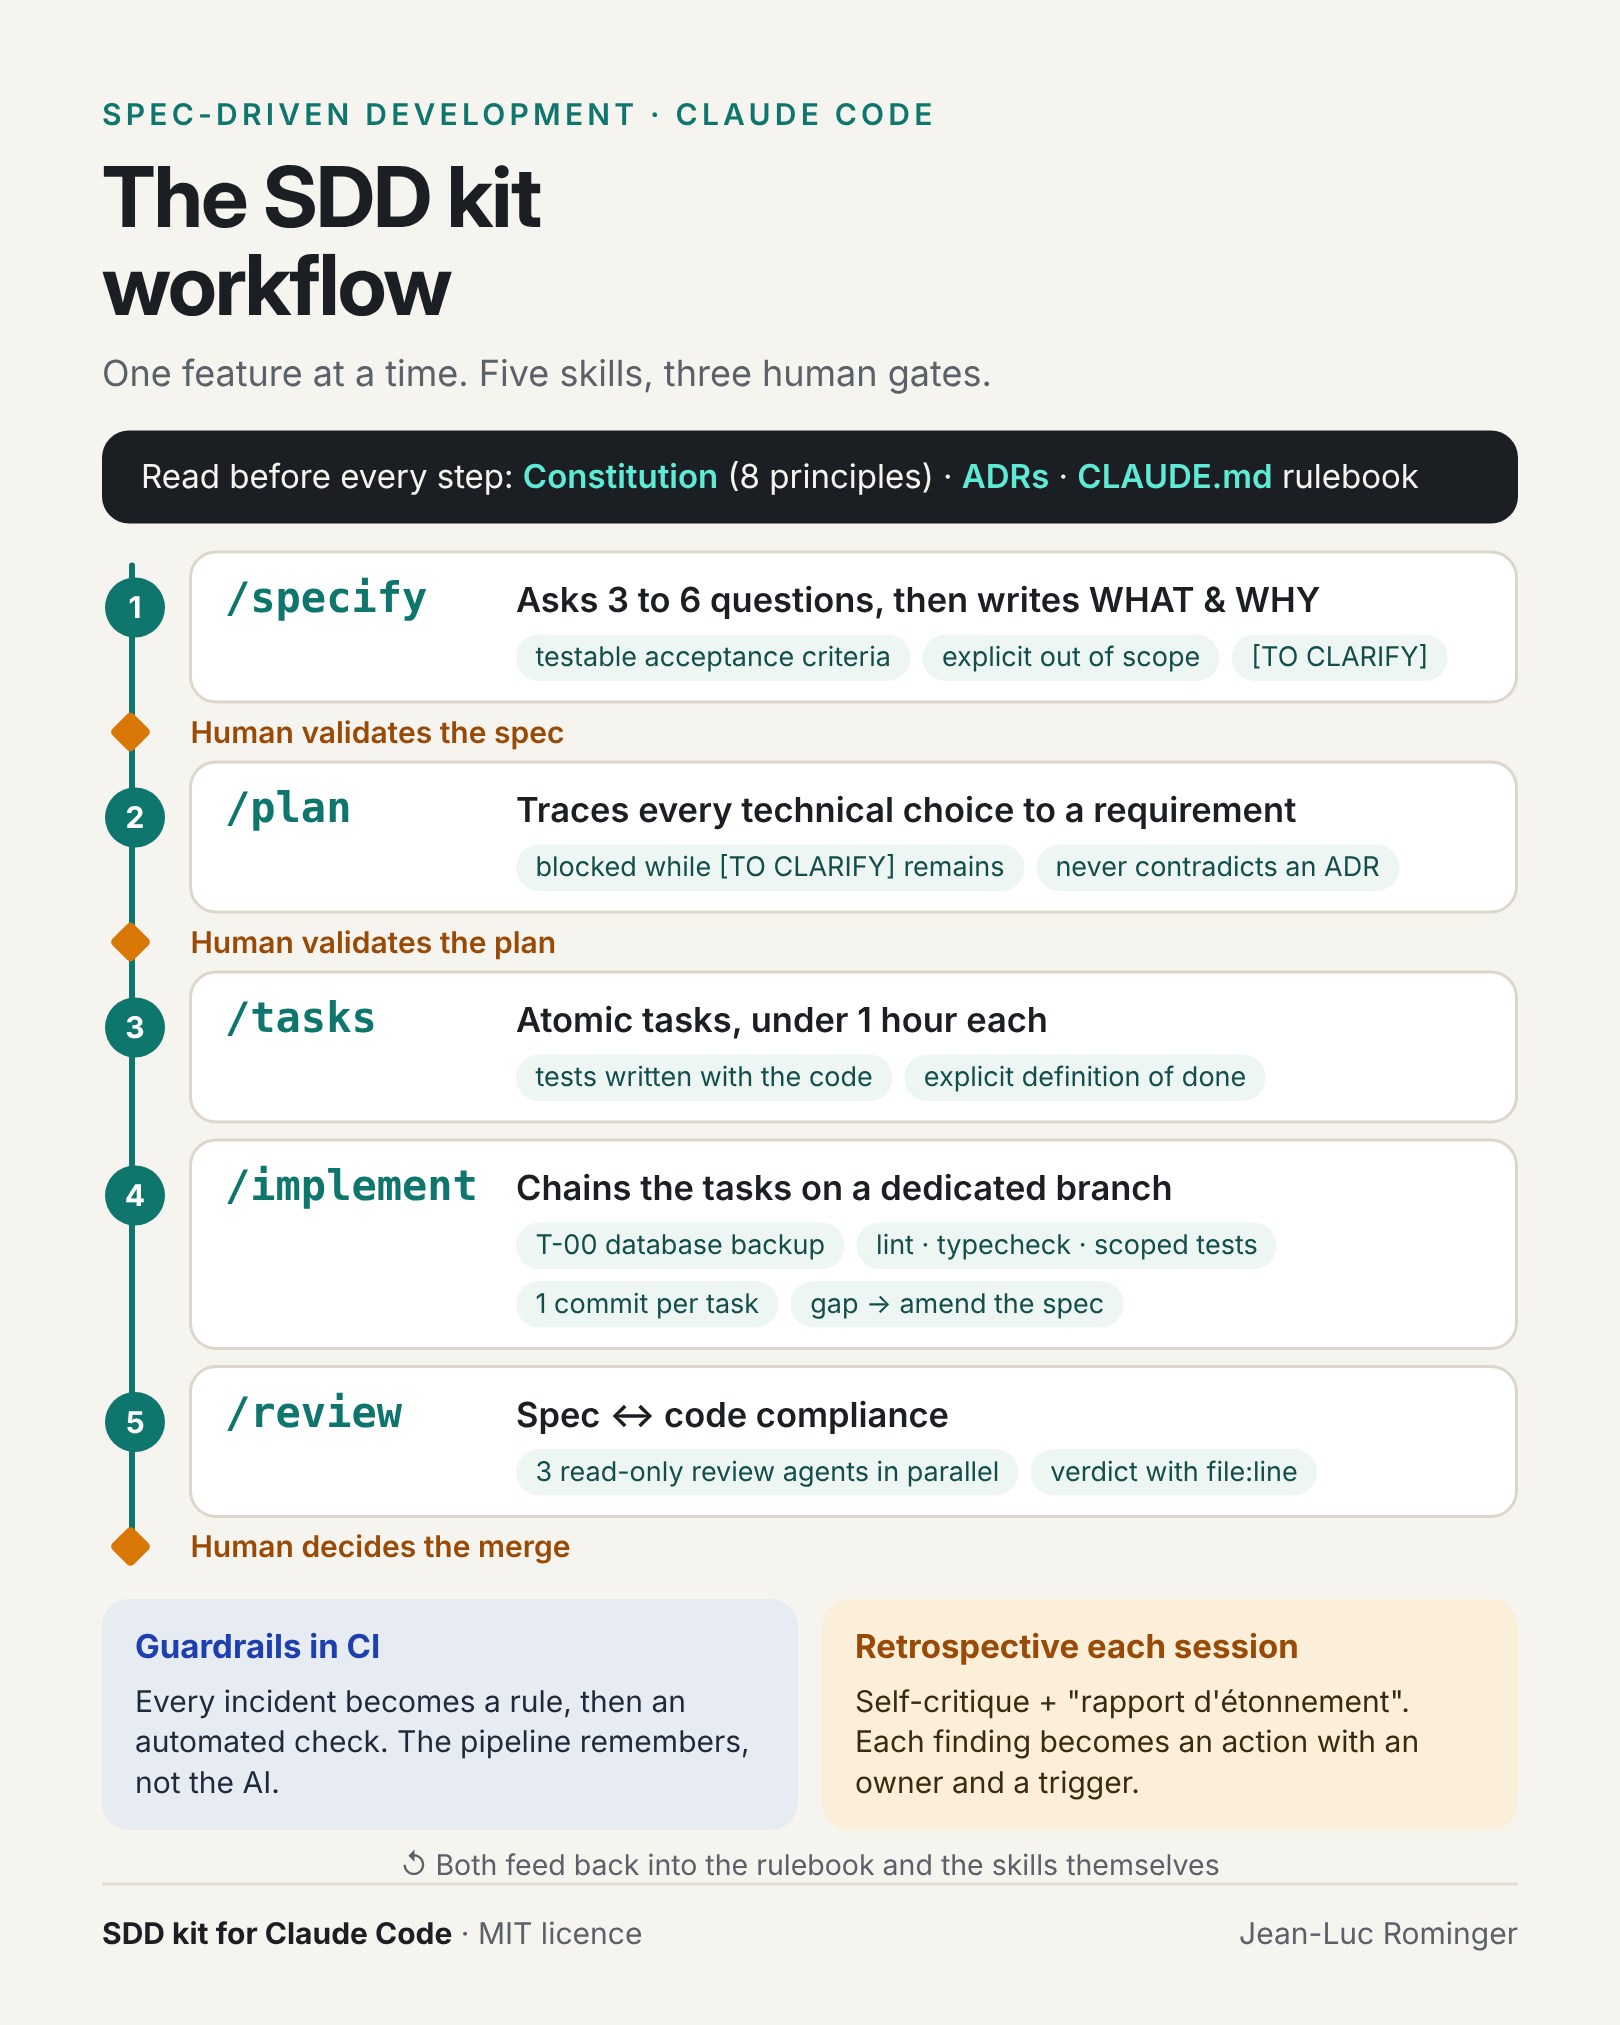
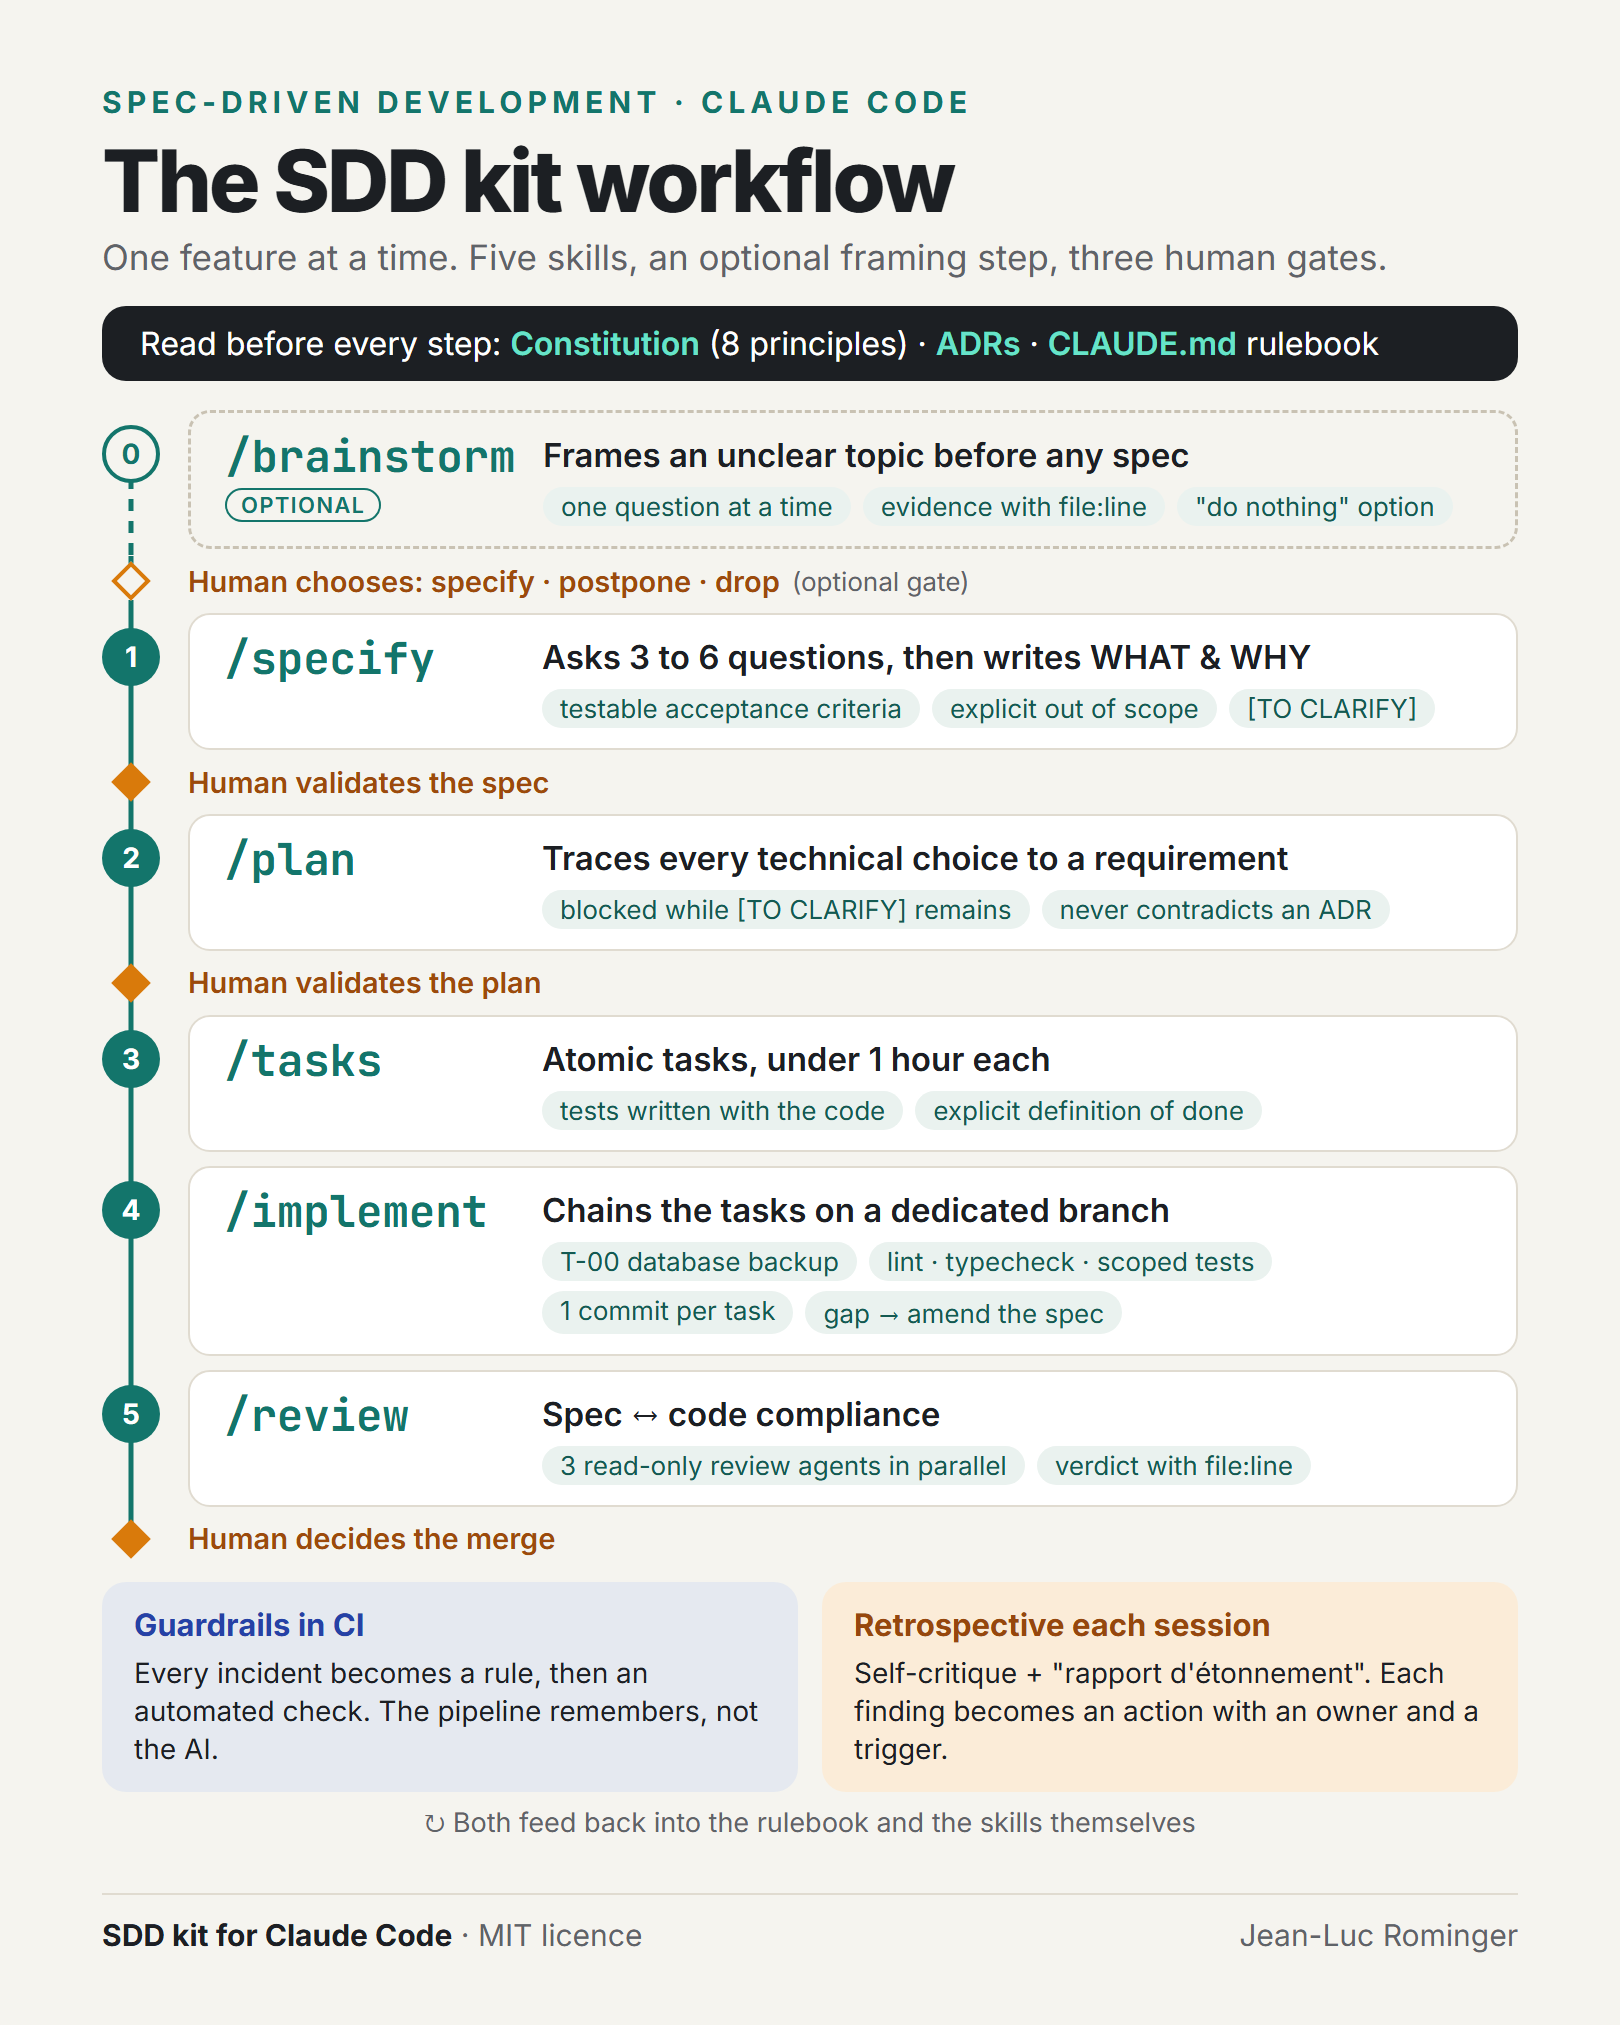
docs: workflow visual shows the optional /brainstorm step, with its source
- workflow.png: dashed step 0 /brainstorm before /specify, optional human
  gate (specify, postpone or drop); the three mandatory gates are unchanged.
  Same 1620 x 2025 px (4:5) format.
- docs/images/src/workflow.html: editable source of the visual, rendered
  with headless Chrome; README.md in that folder gives the render and
  fit-check commands.

diff --git a/docs/images/src/workflow.html b/docs/images/src/workflow.html
@@ -1,0 +1,271 @@
+<!doctype html>
+<!--
+  Source of docs/images/workflow.png (1620 x 2025 px, 4:5).
+  Edit the text below, then re-render: see docs/images/src/README.md.
+-->
+<html lang="en">
+<head>
+<meta charset="utf-8">
+<title>SDD kit workflow</title>
+<link rel="preconnect" href="https://fonts.googleapis.com">
+<link rel="preconnect" href="https://fonts.gstatic.com" crossorigin>
+<link href="https://fonts.googleapis.com/css2?family=Inter:wght@400;500;600;700;800&family=JetBrains+Mono:wght@700&display=block" rel="stylesheet">
+<style>
+  :root {
+    --bg: #f5f4ef;
+    --ink: #1c1f23;
+    --muted: #5f6368;
+    --line: #e0dbd0;
+    --teal: #13756b;
+    --teal-ink: #145a52;
+    --chip: #eaf2ef;
+    --gate: #d97a0b;
+    --gate-ink: #9c4a0c;
+    --dark: #1c1f23;
+    --mint: #67e3c9;
+    --ci-bg: #e5e9f0;
+    --ci-ink: #2541a6;
+    --retro-bg: #fbecd8;
+    --retro-ink: #96470d;
+    --mono: "JetBrains Mono", ui-monospace, Consolas, monospace;
+  }
+  * { box-sizing: border-box; margin: 0; padding: 0; }
+  html, body { width: 1620px; height: 2025px; background: var(--bg); }
+  body {
+    font-family: Inter, "Segoe UI", Arial, sans-serif;
+    color: var(--ink);
+    -webkit-font-smoothing: antialiased;
+  }
+  .canvas {
+    width: 1620px; height: 2025px;
+    padding: 84px 102px 0;
+    display: flex; flex-direction: column;
+  }
+
+  /* Header */
+  .eyebrow { color: var(--teal); font-weight: 700; font-size: 30px; letter-spacing: .17em; }
+  h1 { font-size: 86px; font-weight: 800; letter-spacing: -.035em; line-height: 1.05; margin-top: 16px; }
+  .subtitle { color: var(--muted); font-size: 35px; margin-top: 10px; }
+  .band {
+    margin-top: 28px; background: var(--dark); color: #fff;
+    border-radius: 24px; padding: 18px 38px; font-size: 32px;
+  }
+  .band b { color: var(--mint); font-weight: 600; }
+
+  /* Timeline */
+  .timeline { margin-top: 22px; }
+  .row { display: grid; grid-template-columns: 58px 1fr; column-gap: 28px; }
+  .rail { position: relative; }
+  .rail::before {
+    content: ""; position: absolute; left: 50%; top: 0; bottom: 0;
+    width: 5px; transform: translateX(-50%); background: var(--teal);
+  }
+  .rail.dashed::before {
+    background: repeating-linear-gradient(to bottom, var(--teal) 0 12px, transparent 12px 22px);
+  }
+  .rail.start::before { top: 52px; }
+  .rail.end::before { bottom: auto; height: 50%; }
+
+  .num {
+    position: absolute; left: 50%; top: 22px; transform: translateX(-50%);
+    width: 58px; height: 58px; border-radius: 50%;
+    background: var(--teal); color: #fff; font-weight: 700; font-size: 28px;
+    display: flex; align-items: center; justify-content: center; z-index: 1;
+  }
+  .num.hollow { background: var(--bg); color: var(--teal); border: 4px solid var(--teal); }
+
+  .card-wrap { padding: 7px 0; }
+  .card {
+    background: #fff; border: 2px solid var(--line); border-radius: 22px;
+    padding: 18px 32px 20px 34px;
+    display: grid; grid-template-columns: 318px 1fr; column-gap: 0;
+  }
+  .card.optional { background: transparent; border: 3px dashed #c9c2b3; }
+  .cmd { font-family: var(--mono); color: var(--teal); font-size: 44px; font-weight: 700; line-height: 1.15; }
+  .tag {
+    display: inline-block; margin-top: 6px; padding: 2px 14px;
+    border: 2px solid var(--teal); border-radius: 999px;
+    color: var(--teal); font-size: 22px; font-weight: 600; letter-spacing: .06em; text-transform: uppercase;
+  }
+  .what { font-size: 33px; font-weight: 600; line-height: 1.3; padding-top: 3px; }
+  .chips { display: flex; flex-wrap: wrap; gap: 10px 12px; margin-top: 10px; }
+  .chip {
+    background: var(--chip); color: var(--teal-ink);
+    font-size: 26px; padding: 4px 18px; border-radius: 999px; white-space: nowrap;
+  }
+
+  .gate { display: flex; align-items: center; height: 50px; color: var(--gate-ink); font-weight: 600; font-size: 29px; }
+  .gate .note { color: var(--muted); font-weight: 400; font-size: 26px; margin-left: 12px; }
+  .diamond {
+    position: absolute; left: 50%; top: 50%;
+    width: 28px; height: 28px; transform: translate(-50%, -50%) rotate(45deg);
+    background: var(--gate); z-index: 1;
+  }
+  .diamond.hollow { background: var(--bg); border: 4px solid var(--gate); }
+
+  /* Bottom */
+  .boxes { display: grid; grid-template-columns: 1fr 1fr; gap: 24px; margin-top: 18px; }
+  .box { border-radius: 24px; padding: 22px 32px 24px; font-size: 28px; line-height: 1.36; }
+  .box h2 { font-size: 31px; font-weight: 700; margin-bottom: 8px; }
+  .box.ci { background: var(--ci-bg); }
+  .box.ci h2 { color: var(--ci-ink); }
+  .box.retro { background: var(--retro-bg); }
+  .box.retro h2 { color: var(--retro-ink); }
+  .loop { text-align: center; color: var(--muted); font-size: 27px; margin-top: 14px; }
+
+  footer {
+    margin-top: auto; margin-bottom: 72px; padding-top: 22px;
+    border-top: 2px solid var(--line);
+    display: flex; justify-content: space-between; font-size: 30px; color: var(--muted);
+  }
+  footer b { color: var(--ink); font-weight: 700; }
+</style>
+</head>
+<body>
+<div class="canvas">
+  <div class="eyebrow">SPEC-DRIVEN DEVELOPMENT · CLAUDE CODE</div>
+  <h1>The SDD kit workflow</h1>
+  <p class="subtitle">One feature at a time. Five skills, an optional framing step, three human gates.</p>
+  <div class="band">Read before every step: <b>Constitution</b> (8 principles) · <b>ADRs</b> · <b>CLAUDE.md</b> rulebook</div>
+
+  <div class="timeline">
+    <!-- 0 · optional framing -->
+    <div class="row">
+      <div class="rail dashed start"><span class="num hollow">0</span></div>
+      <div class="card-wrap"><div class="card optional">
+        <div><div class="cmd">/brainstorm</div><span class="tag">optional</span></div>
+        <div>
+          <div class="what">Frames an unclear topic before any spec</div>
+          <div class="chips">
+            <span class="chip">one question at a time</span>
+            <span class="chip">evidence with file:line</span>
+            <span class="chip">"do nothing" option</span>
+          </div>
+        </div>
+      </div></div>
+    </div>
+    <div class="row">
+      <div class="rail dashed"><span class="diamond hollow"></span></div>
+      <div class="gate">Human chooses: specify · postpone · drop<span class="note">(optional gate)</span></div>
+    </div>
+
+    <!-- 1 -->
+    <div class="row">
+      <div class="rail"><span class="num">1</span></div>
+      <div class="card-wrap"><div class="card">
+        <div class="cmd">/specify</div>
+        <div>
+          <div class="what">Asks 3 to 6 questions, then writes WHAT &amp; WHY</div>
+          <div class="chips">
+            <span class="chip">testable acceptance criteria</span>
+            <span class="chip">explicit out of scope</span>
+            <span class="chip">[TO CLARIFY]</span>
+          </div>
+        </div>
+      </div></div>
+    </div>
+    <div class="row">
+      <div class="rail"><span class="diamond"></span></div>
+      <div class="gate">Human validates the spec</div>
+    </div>
+
+    <!-- 2 -->
+    <div class="row">
+      <div class="rail"><span class="num">2</span></div>
+      <div class="card-wrap"><div class="card">
+        <div class="cmd">/plan</div>
+        <div>
+          <div class="what">Traces every technical choice to a requirement</div>
+          <div class="chips">
+            <span class="chip">blocked while [TO CLARIFY] remains</span>
+            <span class="chip">never contradicts an ADR</span>
+          </div>
+        </div>
+      </div></div>
+    </div>
+    <div class="row">
+      <div class="rail"><span class="diamond"></span></div>
+      <div class="gate">Human validates the plan</div>
+    </div>
+
+    <!-- 3 -->
+    <div class="row">
+      <div class="rail"><span class="num">3</span></div>
+      <div class="card-wrap"><div class="card">
+        <div class="cmd">/tasks</div>
+        <div>
+          <div class="what">Atomic tasks, under 1 hour each</div>
+          <div class="chips">
+            <span class="chip">tests written with the code</span>
+            <span class="chip">explicit definition of done</span>
+          </div>
+        </div>
+      </div></div>
+    </div>
+
+    <!-- 4 -->
+    <div class="row">
+      <div class="rail"><span class="num">4</span></div>
+      <div class="card-wrap"><div class="card">
+        <div class="cmd">/implement</div>
+        <div>
+          <div class="what">Chains the tasks on a dedicated branch</div>
+          <div class="chips">
+            <span class="chip">T-00 database backup</span>
+            <span class="chip">lint · typecheck · scoped tests</span>
+            <span class="chip">1 commit per task</span>
+            <span class="chip">gap → amend the spec</span>
+          </div>
+        </div>
+      </div></div>
+    </div>
+
+    <!-- 5 -->
+    <div class="row">
+      <div class="rail"><span class="num">5</span></div>
+      <div class="card-wrap"><div class="card">
+        <div class="cmd">/review</div>
+        <div>
+          <div class="what">Spec ↔ code compliance</div>
+          <div class="chips">
+            <span class="chip">3 read-only review agents in parallel</span>
+            <span class="chip">verdict with file:line</span>
+          </div>
+        </div>
+      </div></div>
+    </div>
+    <div class="row">
+      <div class="rail end"><span class="diamond"></span></div>
+      <div class="gate">Human decides the merge</div>
+    </div>
+  </div>
+
+  <div class="boxes">
+    <div class="box ci">
+      <h2>Guardrails in CI</h2>
+      Every incident becomes a rule, then an automated check. The pipeline remembers, not the AI.
+    </div>
+    <div class="box retro">
+      <h2>Retrospective each session</h2>
+      Self-critique + "rapport d'étonnement". Each finding becomes an action with an owner and a trigger.
+    </div>
+  </div>
+  <p class="loop">↻ Both feed back into the rulebook and the skills themselves</p>
+
+  <footer>
+    <span><b>SDD kit for Claude Code</b> · MIT licence</span>
+    <span>Jean-Luc Rominger</span>
+  </footer>
+</div>
+<script>
+  // Exposes the content height for the render check (see README.md in this folder).
+  document.fonts.ready.then(() => {
+    const c = document.querySelector('.canvas');
+    const f = document.querySelector('footer');
+    const last = document.querySelector('.loop');
+    document.body.dataset.fits = String(f.getBoundingClientRect().top - last.getBoundingClientRect().bottom >= 20);
+    document.body.dataset.height = String(c.scrollHeight);
+  });
+</script>
+</body>
+</html>

diff --git a/docs/images/src/README.md b/docs/images/src/README.md
@@ -1,0 +1,33 @@
+# Image sources
+
+| Source | Rendered image | Size |
+|---|---|---|
+| `workflow.html` | `../workflow.png` | 1620 × 2025 px (4:5) |
+
+`evolution.png` has no source yet. Recreate it here the same way the next time it changes.
+
+## Edit and re-render
+
+1. Edit the text in `workflow.html`. Colours and spacing are at the top of the file, in `<style>`.
+2. Render it with headless Chrome (or Edge: same flags). The fonts (Inter, JetBrains Mono) load from Google Fonts, so you need network access. Run from the repository root:
+
+   ```bash
+   # Windows (Git Bash)
+   CHROME="/c/Program Files/Google/Chrome/Application/chrome.exe"
+   # macOS: CHROME="/Applications/Google Chrome.app/Contents/MacOS/Google Chrome"
+   # Linux: CHROME=google-chrome
+
+   SRC="file://$(pwd)/docs/images/src/workflow.html"   # Windows: "file:///$(cygpath -m "$PWD")/docs/images/src/workflow.html"
+   OUT="$(pwd)/docs/images/workflow.png"                # Windows: "$(cygpath -m "$PWD")/docs/images/workflow.png"
+
+   # 1. Check that everything fits: expect data-fits="true" data-height="2025"
+   "$CHROME" --headless=new --disable-gpu --window-size=1620,2025 --virtual-time-budget=10000 \
+     --dump-dom "$SRC" | grep -o '<body[^>]*>'
+
+   # 2. Render
+   "$CHROME" --headless=new --disable-gpu --hide-scrollbars --force-device-scale-factor=1 \
+     --window-size=1620,2025 --virtual-time-budget=10000 --screenshot="$OUT" "$SRC"
+   ```
+
+3. If step 1 prints `data-fits="false"`, or a height above 2025, the content overflows the canvas. Shorten a text or reduce the spacing (`.card` padding, `.card-wrap`, `.gate` height) until it fits again. Don't make the canvas taller: 4:5 is the format social networks display without cropping.
+4. Open the PNG and check it, then update the image's alt text in `README.md` if the content changed.
